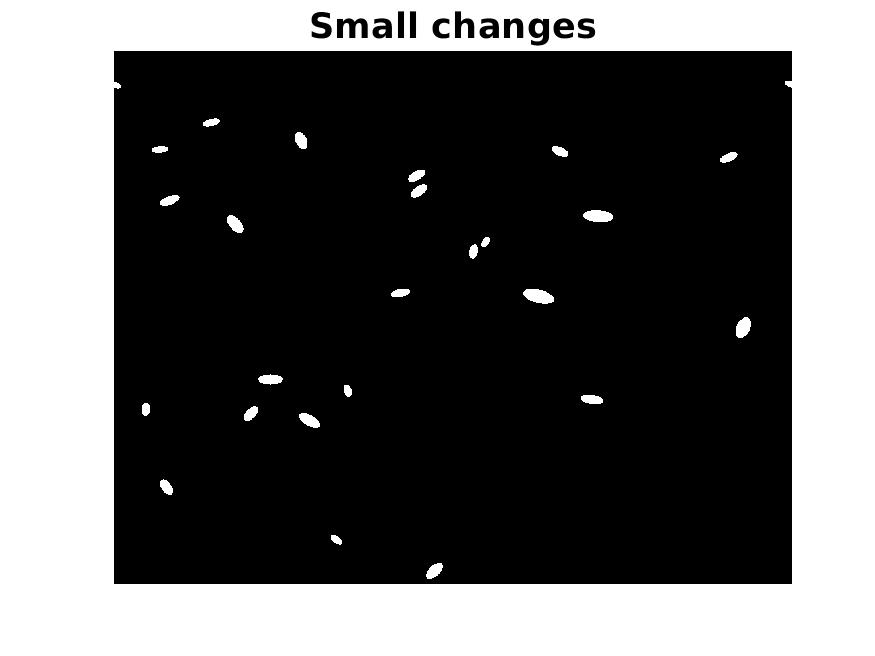
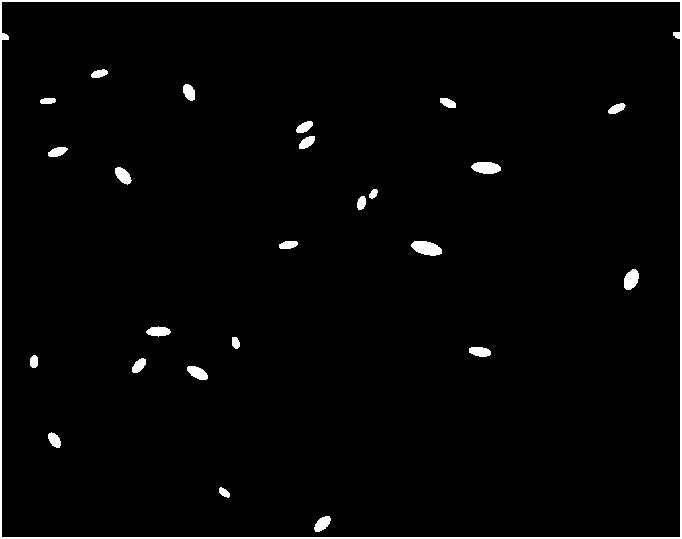
updates in small change analysis

diff --git a/codes/Small_ChangeAnalysis_methods.m b/codes/Small_ChangeAnalysis_methods.m
@@ -51,9 +51,16 @@ n2 = size(mY,2);
 % all changes that are expected to be detected
 mImage = figure;
 colormap(gray(256)); imagesc(im1)
-title('Small changes', 'FontSize', 17)
 axis off
-saveas(mImage,sprintf('../figs/small_changes.jpg'))
+% saveas(mImage,sprintf('../figs/small_changes.jpg'))
+exportgraphics(mImage,sprintf('../figs/small_changes.jpg'),'BackgroundColor','none')
+
+% all changes that are expected to be detected
+mImage = figure;
+colormap(gray(256)); imagesc(mY(:,:,1))
+axis off
+exportgraphics(mImage,sprintf('../figs/small_changes_first_image.jpg'),'BackgroundColor','none')
+
 
 % mean observed image
 imRef = mean(mY,3);
@@ -89,7 +96,8 @@ set(gca,'FontSize',13)
 for m = 1:4:80
     xline(m)
 end
-saveas(mImage,sprintf('../figs/small_changes_detected_instants.jpg'))
+% saveas(mImage,sprintf('../figs/small_changes_detected_instants.jpg'))
+exportgraphics(mImage,sprintf('../figs/small_changes_detected_instants.jpg'),'BackgroundColor','none')
 
 %
 R = zeros(n1,n2);
@@ -104,8 +112,9 @@ R_wecs = R./max(R(:));
 %
 mImage = figure;
 imshow(R_wecs)
-title('db2 WECS d(m), J=2', 'FontSize', 17)
-saveas(mImage,sprintf('../figs/small_changes_corr_dm.jpg'))
+% title('db2 WECS d(m), J=2', 'FontSize', 17)
+% saveas(mImage,sprintf('../figs/small_changes_corr_dm.jpg'))
+exportgraphics(mImage,sprintf('../figs/small_changes_corr_dm.jpg'),'BackgroundColor','none')
 
 
 %% No wavelets for comparison with mean image (ECS)
@@ -178,7 +187,8 @@ legend('db2 WECS $\textbf{d}(m)$, $J=2$', '$\textbf{d}(m)$: without wavelets', .
     'Aggregation of absolute differences','interpreter','latex', 'Location','southeast', 'FontSize', 12)
 legend('boxoff')
 hold off
-saveas(mImage,sprintf('../figs/small_changes_methods_comparison.jpg'))
+% saveas(mImage,sprintf('../figs/small_changes_methods_comparison.jpg'))
+exportgraphics(mImage,sprintf('../figs/small_changes_methods_comparison.jpg'),'BackgroundColor','none')
 
 %
 
@@ -189,6 +199,11 @@ saveas(mImage,sprintf('../figs/small_changes_methods_comparison.jpg'))
 mResults = array2table([vp_wecs; FP_wecs; vp_nowecs; FP_nowecs; vp_agg; FP_agg]');
 mResults.Properties.VariableNames = {'vp_wecs' 'FP_wecs' 'vp_nowecs' 'FP_nowecs' 'vp_agg' 'FP_agg'};
 %writetable(mResults,'SeqEllipse_methods_F1score.csv')
+
+% saving CSV for ROC curves of WECS, TAAD and ECS
+mResults = array2table([FP_wecs; vp_wecs; FP_agg; vp_agg; FP_nowecs; vp_nowecs]');
+mResults.Properties.VariableNames = {'FP_wecs' 'f1_score_wecs' 'FP_taad' 'f1_score_taad' 'FP_ecs' 'f1_score_ecs'};
+writetable(mResults,'small_changes_ROC_curves_forest.csv')
 
 
 mImage = figure;
